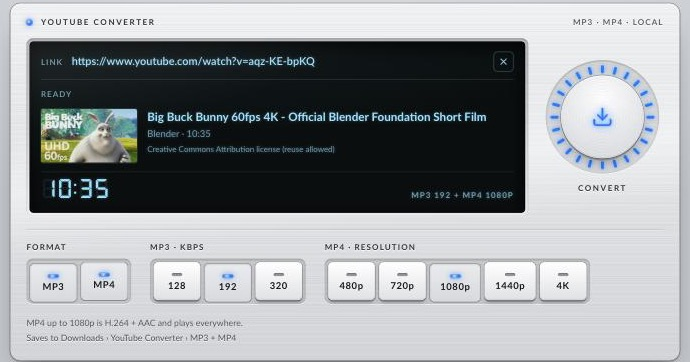
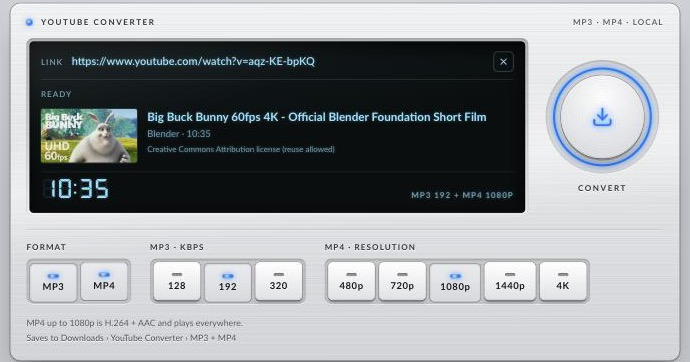
Knob: solid blue ring at rest, green check when done

Changed region(s): [[0.7913, 0.1823, 0.9739, 0.4862], [0.1217, 0.7597, 0.1826, 0.7901]]

diff --git a/static/index.html b/static/index.html
@@ -36,6 +36,8 @@
   --led-off: #9a9ea5;
   --led-on: #2f86ff;
   --led-glow: rgb(47 134 255 / .65);
+  --led-ok: #2bd47d;
+  --led-ok-glow: rgb(43 212 125 / .6);
   --glass: #060b0d;
   --glass-edge: #000;
   --vfd: #a6e6ff;
@@ -309,7 +311,15 @@ body {
   background: var(--led-off); opacity: .6;
   transform: rotate(calc(var(--n) * 15deg)) translateY(calc(var(--r) * -1));
 }
-.ring i.lit, .dial.ready .ring i { background: var(--led-on); opacity: 1; box-shadow: 0 0 6px var(--led-glow); }
+.ring i.lit { background: var(--led-on); opacity: 1; box-shadow: 0 0 6px var(--led-glow); }
+/* At rest the ring is one continuous blue line; segments appear only while converting. */
+.ring::before {
+  content: ""; position: absolute; border-radius: 50%;
+  inset: calc(var(--size) / 2 - var(--r) - 2px);
+  border: 3px solid var(--led-on); opacity: .45;
+}
+.dial.ready .ring::before { opacity: 1; box-shadow: 0 0 8px var(--led-glow), inset 0 0 6px var(--led-glow); }
+.dial.busy .ring::before, .dial:not(.busy) .ring i { display: none; }
 .dial.sweep .ring i { animation: ring-sweep 1.2s steps(1) infinite; animation-delay: calc(var(--n) * 50ms); }
 @keyframes ring-sweep { 0%, 8% { background: var(--led-on); opacity: 1; box-shadow: 0 0 6px var(--led-glow); } 9%, 100% { background: var(--led-off); opacity: .6; box-shadow: none; } }
 .knob {
@@ -336,6 +346,9 @@ body {
 /* drop-shadow sits on the wrapper because the icon itself is masked */
 .glyph { display: inline-flex; color: var(--led-off); }
 .dial.ready .glyph, .dial.busy .glyph { color: var(--led-on); filter: drop-shadow(0 0 2px var(--led-glow)) drop-shadow(0 0 7px var(--led-glow)); }
+/* Done: the icon becomes a check glowing green until the next lookup or conversion. */
+.dial.done .glyph { color: var(--led-ok); filter: drop-shadow(0 0 2px var(--led-ok-glow)) drop-shadow(0 0 7px var(--led-ok-glow)); }
+.dial.done .glyph .icon { --src: url(icons/check.svg); }
 .transport .legend { letter-spacing: .2em; }
 @keyframes blink { 50% { opacity: .25; } }
 .dest { font-size: 12px; color: var(--engrave-soft); text-shadow: 0 1px 0 var(--engrave-hi); }
@@ -480,7 +493,7 @@ body {
 const $ = (id) => document.getElementById(id);
 const MP3 = [["128", "128"], ["192", "192"], ["320", "320"]];
 const SEGMENTS = 32;
-const state = { info: null, formats: new Set(["mp3"]), quality: { mp3: "192", mp4: "1080" }, busy: false, infoReq: 0 };
+const state = { done: false, info: null, formats: new Set(["mp3"]), quality: { mp3: "192", mp4: "1080" }, busy: false, infoReq: 0 };
 
 const RING = 24;
 $("ring").replaceChildren(...Array.from({ length: RING }, (_, n) => {
@@ -578,6 +591,7 @@ function renderControls() {
   btn.disabled = !state.info || state.busy;
   $("dial").classList.toggle("ready", !!state.info && !state.busy);
   $("dial").classList.toggle("busy", state.busy);
+  $("dial").classList.toggle("done", state.done && !state.busy);
   if (!state.busy) { $("dial").classList.remove("sweep"); setRing(0); }
   $("convert-label").textContent = state.busy ? "Working" : "Convert";
 }
@@ -591,6 +605,7 @@ $("formats").addEventListener("click", (e) => {
 });
 
 function resetOutput() {
+  state.done = false;
   $("error").hidden = true; $("files").hidden = true; $("progress").hidden = true;
   $("readout").hidden = false;
 }
@@ -714,6 +729,7 @@ async function convert() {
     } while (job.phase !== "done" && job.phase !== "error");
     if (job.phase === "error") throw new Error(job.error);
     setStatus(job.files.length > 1 ? "Both files saved" : "Saved");
+    state.done = true;
   } catch (err) {
     $("error-msg").textContent = job?.files?.length
       ? `${err.message} (${job.files.map((f) => f.format.toUpperCase()).join(", ")} was saved.)`

diff --git a/DESIGN.md b/DESIGN.md
@@ -294,8 +294,9 @@ Tactile, decisive, latching. The core control of the system.
 
 ### Transport Knob (LED-ring)
 - The single big action: a round push-knob (156px dial, 112px compact) centred in the 168px transport column, with the engraved legend "Convert" (reads "Working" while busy) beneath it (beside it on compact).
-- **Ring:** 24 LED segments (4×11px, 8px compact) set radially in a recessed circular well around the knob. The ring is both the indicator and the job meter: unlit grey (`led-off` at 60%) with no video; fully lit Indicator Blue with glow when ready; while converting it fills clockwise from 12 o'clock with the whole job's progress (all formats, not just the current one); during start, encode and merge a single lit segment chases round it in 50ms `steps(1)` hops.
-- **Knob face:** machined concentric hairlines over a radial key gradient, hard 1px edge, 3px side wall; presses 2px at 90ms `steps(2)`. The download icon in its centre is grey when idle and glowing blue lines when ready or busy.
+- **Ring:** at rest it is one continuous 3px Indicator Blue circle in a recessed circular well: dimmed (45%, no glow) with no video, full strength with glow when ready. While converting it switches to 24 LED segments (4×11px, 8px compact) that fill clockwise from 12 o'clock with the whole job's progress (all formats, not just the current one); during start, encode and merge a single lit segment chases round it in 50ms `steps(1)` hops.
+- **Done:** after a successful conversion the centre icon becomes a check glowing Done Green (`led-ok` #2bd47d) while the ring returns to steady blue; it stays until the next lookup, clear or conversion.
+- **Knob face:** machined concentric hairlines over a radial key gradient, hard 1px edge, 3px side wall; presses 2px at 90ms `steps(2)`. The download icon in its centre is grey when idle, glowing blue lines when ready or busy, and a green check when done.
 - **Disabled** until a video is looked up; focus is a 2px ring offset 4px, following the round shape.
 
 ### Display Window (signature component)
